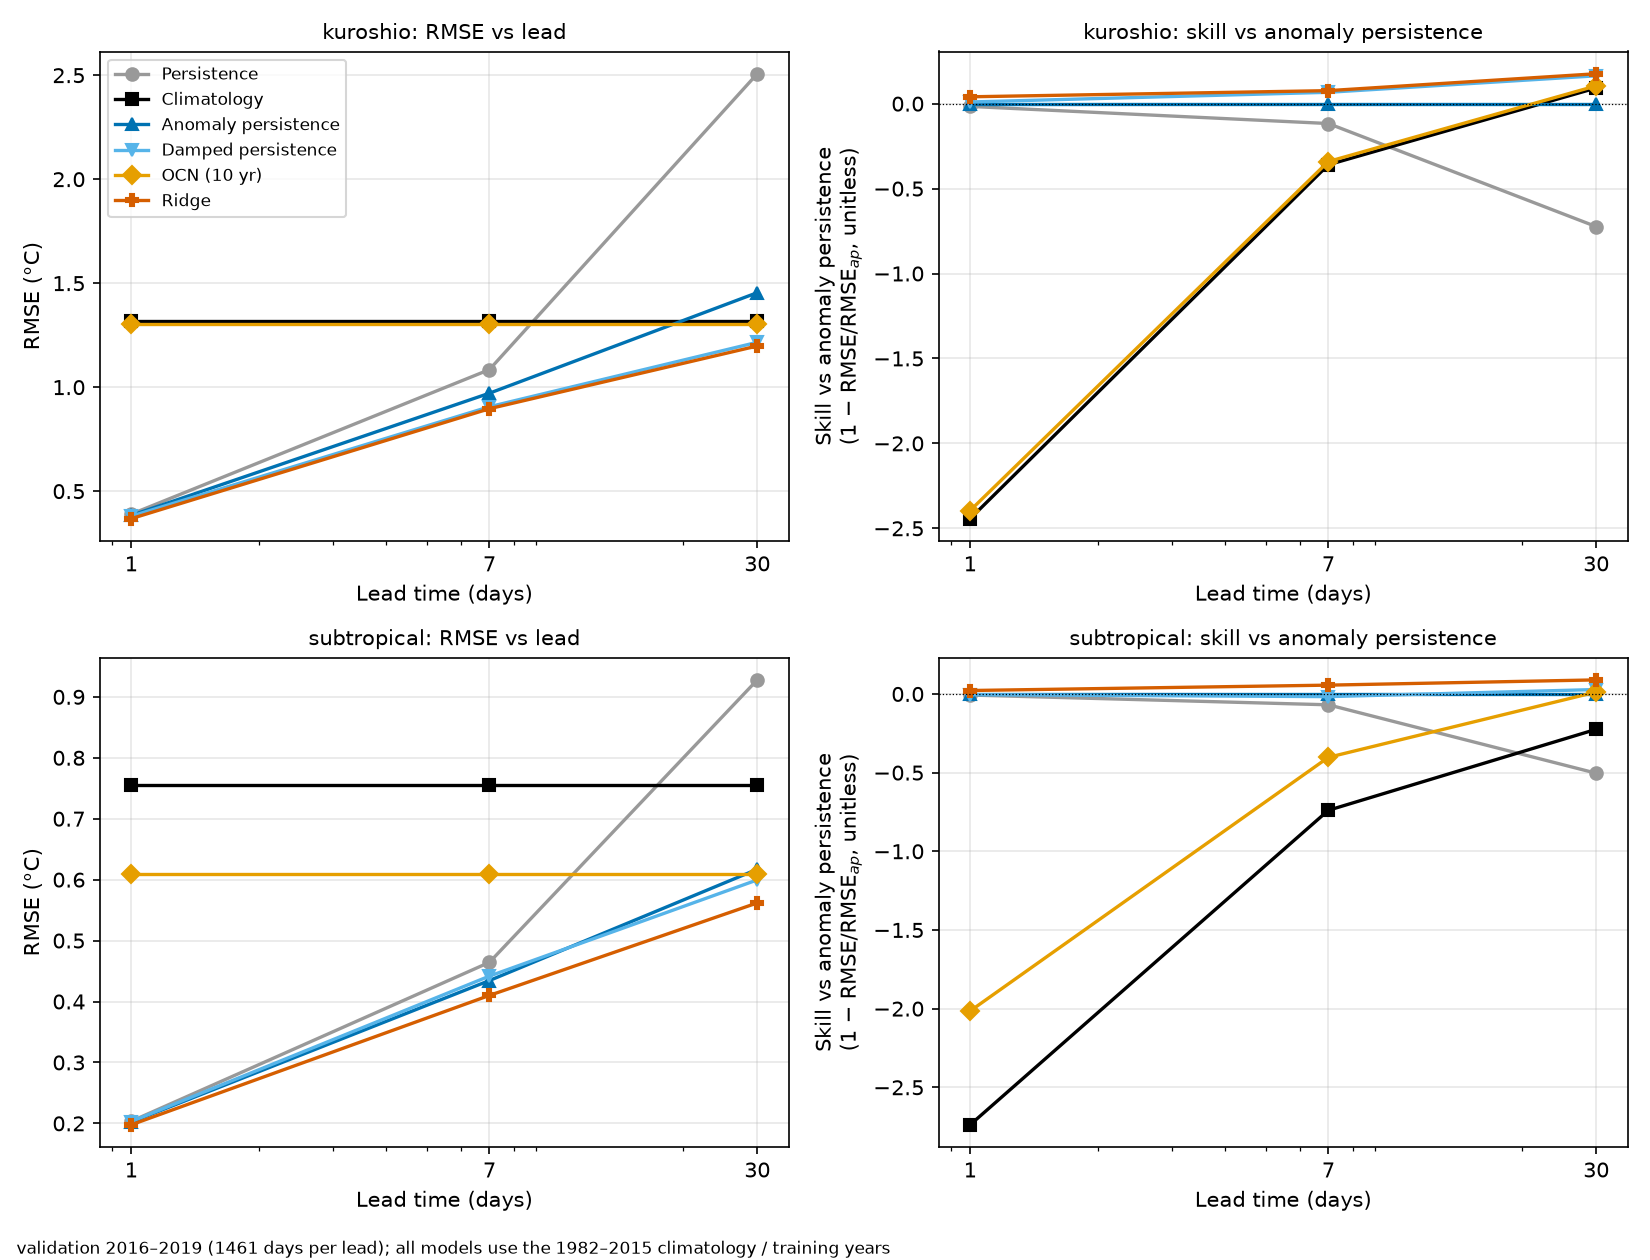
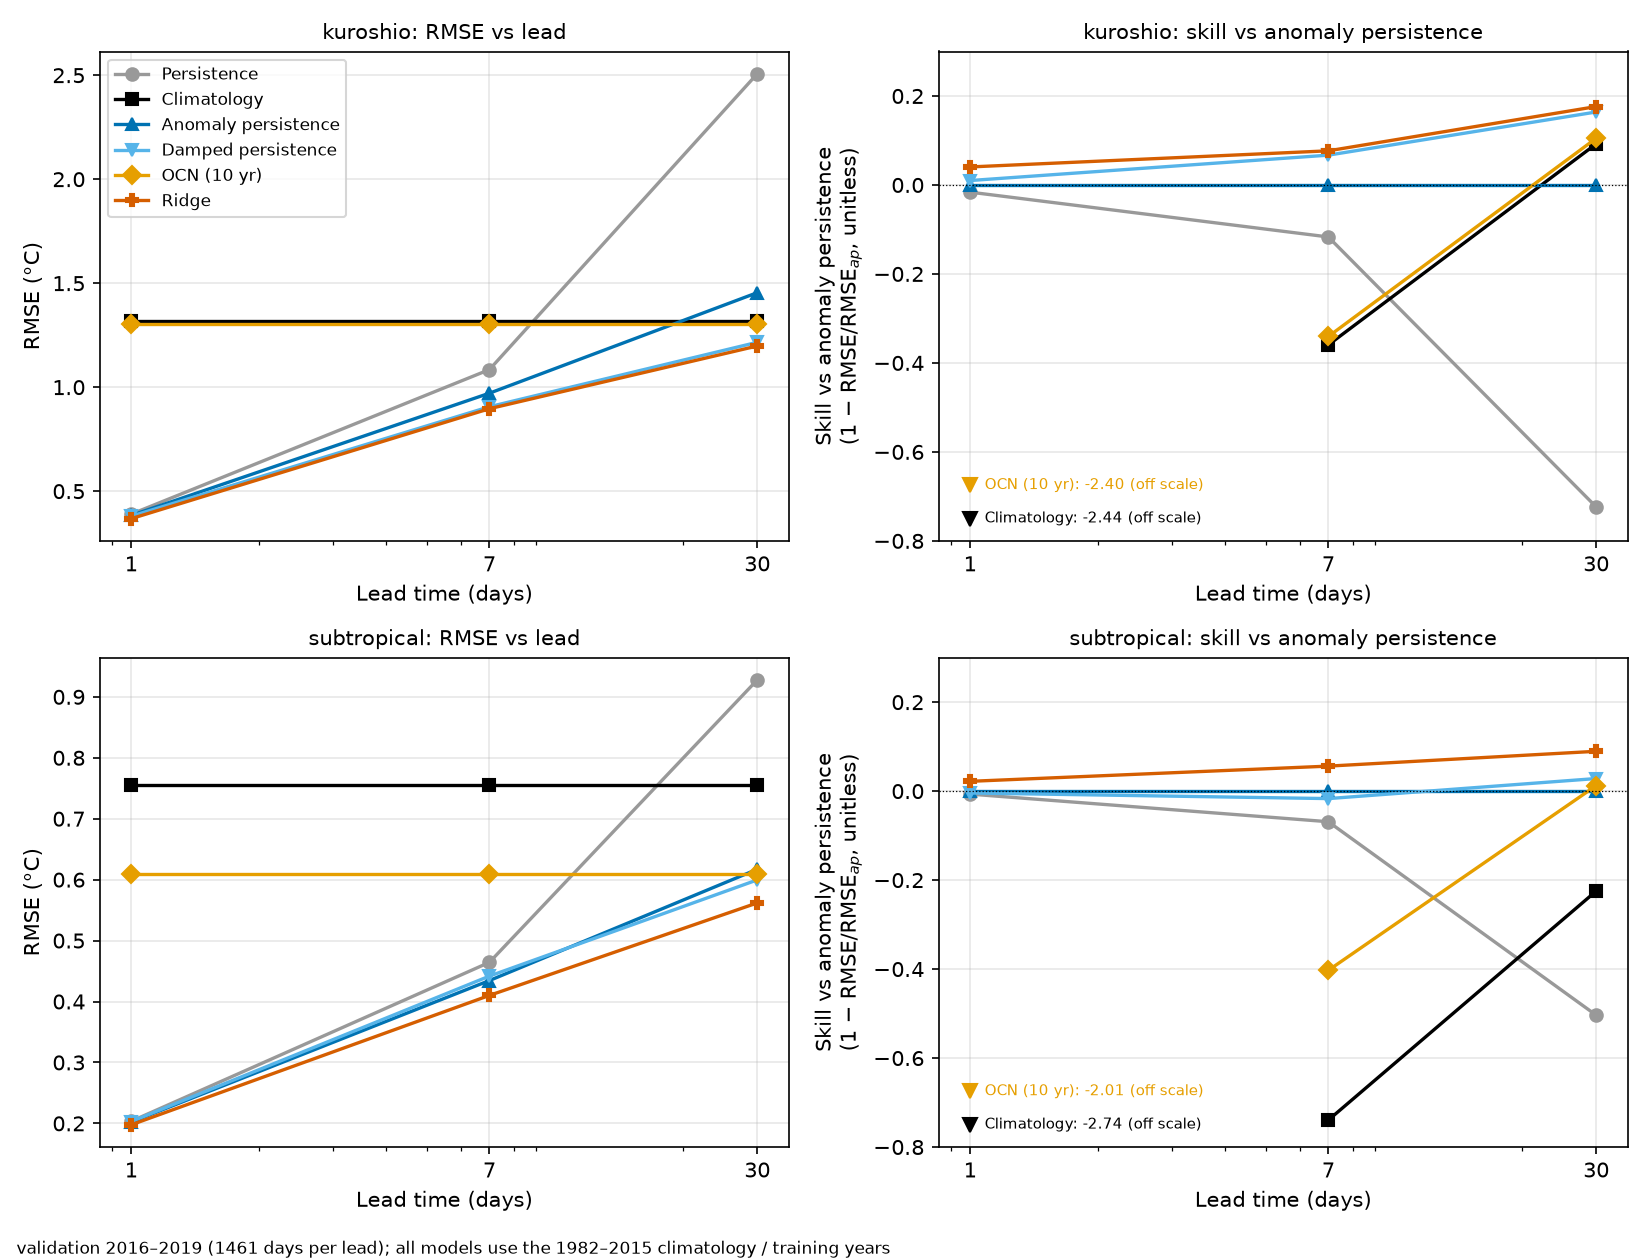
Final-climatology region stats (preliminary kept), readable fig 2 skill panel, README/notes

diff --git a/src/sst/figures2.py b/src/sst/figures2.py
@@ -19,17 +19,37 @@ STYLE = {  # Okabe-Ito colours (colour-blind safe) + distinct markers
 }
 
 
-def fig2():
-    d = json.loads((RES / "val_all.json").read_text())
+SKILL_YLIM = (-0.8, 0.3)
+
+
+def fig2(src="val_all.json", out_name="fig2_val_leads.png",
+         footnote="validation 2016–2019 (1461 days per lead); all models use the 1982–2015 climatology / training years"):
+    """RMSE (left) and skill vs anomaly persistence (right). In the skill panel the y-axis is limited to
+    SKILL_YLIM; values below it (climatology / OCN at short leads) are drawn as off-scale arrows with their value."""
+    d = json.loads((RES / src).read_text())
     leads, regions = d["leads_days"], list(d["regions"])
+    lo, hi = SKILL_YLIM
     fig, axes = plt.subplots(len(regions), 2, figsize=(11, 4.2 * len(regions)), squeeze=False)
     for i, reg in enumerate(regions):
+        off = {h: [] for h in leads}
         for m in d["methods"]:
             c, mk, lab = STYLE[m]
             rm = [d["regions"][reg][str(h)]["methods"][m]["overall"]["rmse"] for h in leads]
             sk = [d["regions"][reg][str(h)]["skill"][m]["rmse_skill_vs_anomaly_persistence"] for h in leads]
             axes[i, 0].plot(leads, rm, color=c, marker=mk, label=lab, lw=1.6)
-            axes[i, 1].plot(leads, sk, color=c, marker=mk, label=lab, lw=1.6)
+            inside = [(h, v) for h, v in zip(leads, sk) if v >= lo]
+            axes[i, 1].plot([h for h, _ in inside], [v for _, v in inside], color=c, marker=mk, label=lab, lw=1.6)
+            for h, v in zip(leads, sk):
+                if v < lo:
+                    off[h].append((m, v))
+        for h, items in off.items():  # off-scale values: arrow at the bottom edge + labelled value
+            for j, (m, v) in enumerate(items):
+                c, _, lab = STYLE[m]
+                y = lo + 0.05 + 0.075 * j
+                axes[i, 1].plot([h], [y], marker="v", color=c, ms=7, ls="none", clip_on=False)
+                axes[i, 1].annotate(f"{lab}: {v:+.2f} (off scale)", (h, y), xytext=(7, 0), textcoords="offset points",
+                                    fontsize=7, color=c, va="center", ha="left" if h < leads[-1] else "right")
+        axes[i, 1].set_ylim(lo, hi)
         axes[i, 1].axhline(0, color="k", lw=0.6, ls=":")
         axes[i, 0].set_ylabel("RMSE (°C)")
         axes[i, 1].set_ylabel("Skill vs anomaly persistence\n(1 − RMSE/RMSE$_{ap}$, unitless)")
@@ -41,10 +61,9 @@ def fig2():
             ax.set_xlabel("Lead time (days)")
             ax.grid(alpha=0.3)
     axes[0, 0].legend(fontsize=8)
-    fig.text(0.01, 0.005, "validation 2016–2019 (1461 days per lead); all models use the 1982–2015 climatology / training years",
-             fontsize=8, ha="left")
+    fig.text(0.01, 0.005, footnote, fontsize=8, ha="left")
     fig.tight_layout(rect=(0, 0.02, 1, 1))
-    out = RES / "figures" / "fig2_val_leads.png"
+    out = RES / "figures" / out_name
     fig.savefig(out, dpi=150)
     plt.close(fig)
     return out

diff --git a/src/sst/region_stats_final.py b/src/sst/region_stats_final.py
@@ -1,0 +1,33 @@
+"""Region stats with the FINAL training climatology (harmonics3, training years only).
+
+Only data up to the training end is used. The earlier numbers (unsmoothed day-of-year mean) are kept in
+results/region_stats.json under "preliminary"; the new ones go under "final". Safe to re-run.
+"""
+import json
+
+import xarray as xr
+
+from sst.climatology import anomaly, build_climatology
+from sst.download import ROOT, load_config
+from sst.figures import region_stats
+
+PATH = ROOT / "results" / "region_stats.json"
+
+
+def main():
+    cfg = load_config()
+    train = cfg["split"]["train"]
+    old = json.loads(PATH.read_text())
+    prelim = old["preliminary"] if "preliminary" in old else old
+    final = {"anomaly_definition": "SST minus FINAL training climatology (%s, years %s to %s); cos(lat) weights"
+             % (cfg["climatology"]["smoothing"], *train)}
+    for region in cfg["regions"]:
+        sst = xr.open_dataset(ROOT / "data" / "processed" / f"{region}.nc")["sst"].sel(time=slice(*train)).load()
+        clim = build_climatology(sst, cfg)
+        final[region] = region_stats(anomaly(sst, clim))
+    PATH.write_text(json.dumps({"preliminary": prelim, "final": final}, indent=2))
+    print(json.dumps(final, indent=2))
+
+
+if __name__ == "__main__":
+    main()

diff --git a/src/sst/tables.py b/src/sst/tables.py
@@ -25,7 +25,7 @@ def main():
     for reg, a in b["area_mean_anomaly"].items():
         print(reg, "mean anomaly train %.3f val %.3f" % (a["mean_train"], a["mean_val"]),
               {y: round(v, 2) for y, v in a["yearly_mean"].items() if int(y) >= 2013})
-    rs = json.loads((R / "region_stats.json").read_text())
+    rs = json.loads((R / "region_stats.json").read_text())["final"]
     print({k: v["point_anomaly_std_cosw_mean"] for k, v in rs.items() if isinstance(v, dict) and "point_anomaly_std_cosw_mean" in v})
     a = json.loads((R / "ridge_alphas.json").read_text())
     print({r: {h: i["alpha"] for h, i in v.items()} for r, v in a["regions"].items()})

diff --git a/README.md b/README.md
@@ -21,6 +21,9 @@ model: the point is to know how hard a baseline is to beat before any learned mo
   day is stored in `data/processed/<region>.nc` (`source`) and `data/raw/manifest.json`.
 - Result: 16,071 daily fields per region (1982-01-01 … 2025-12-31), 40×40 grid, no missing day, no land points.
 - Downloaded on 2026-11-02.
+- Variability (training years, anomaly vs the final harmonics3 climatology, cos(lat)-weighted; `results/region_stats.json`, key `final`):
+  per-point anomaly std 1.13 °C (Kuroshio) vs 0.69 °C (subtropical); area-mean anomaly std 0.66 vs 0.52 °C;
+  lag-1 autocorrelation of the area mean 0.984 vs 0.978. The earlier "preliminary" numbers (unsmoothed day-of-year mean) are kept under `preliminary`.
 - Split: training 1982–2015, validation 2016–2019, test 2020–2025 (the test period is not loaded in any validation code).
 
 ## Data notes
@@ -68,7 +71,7 @@ Validation (2016–2019) complete for all baselines and Ridge. **Test period not
   there, see `results/ridge_alphas.json`); the grid was not extended.
 - OISST is an analysis (interpolated from satellites and in situ data), not raw observations; its character changes over time.
 - 1,194 days per region come from a second source (PSL), validated but with a v2/v2.1 label change at 2016.
-- Figure 1 uses a preliminary (unsmoothed) day-of-year anomaly; the scores use the harmonics3 climatology.
+- Figure 1 (`fig1_regions.png`) still shows the preliminary (unsmoothed day-of-year) anomaly std; the scores and the final region stats use the harmonics3 climatology.
 - Only SST is used; no other predictors, no probabilistic scores, no uncertainty intervals yet.
 
 ## How this was built
